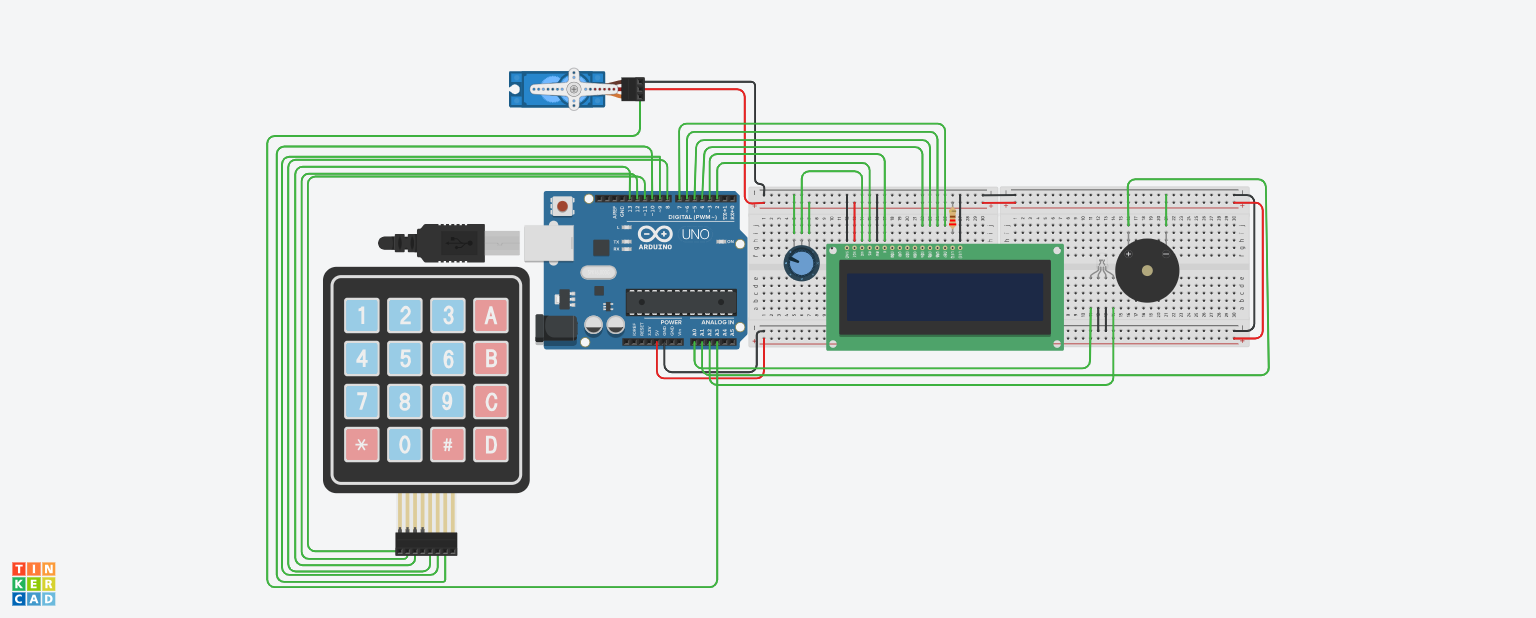
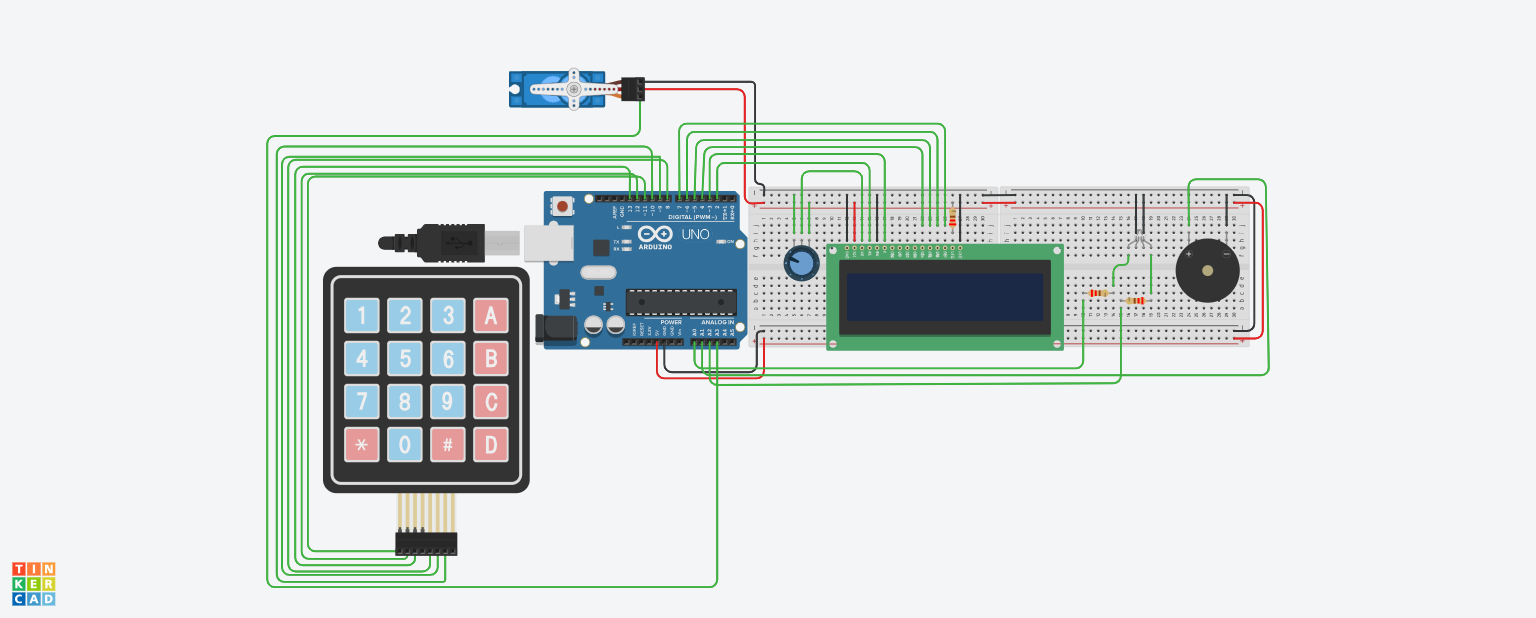
Fixing RGB LED connection

Changed region(s): [[0.6875, 0.2767, 0.8125, 0.5841], [0.5312, 0.6149, 0.7188, 0.6456]]

diff --git a/README.md b/README.md
@@ -1,2 +1,13 @@
 # Door_Safeguards_Rovers.
-The project is about to unlock a door using a password entered on a keypad. An LCD screen displays the message.LED lights up green and the door unlocks ,or red and buzzer rings, for 2 seconds
+The project is about unlock a door using a password entered on a keypad. An LCD screen displays the message "Plz enter the password." If the password is correct, an LED lights up green and the door unlocks. The LCD screen displays the message "Door Unlocked."and the door is unlocked for 2 seconds .
+If the password is incorrect, the same LED turns red (Red color in the LED gradually fade from its full brightness to zero.), and a buzzer sounds for 2 second. This loop continues.
+The password for unlocking the door is "74321658" The number 9 on the keypad is used as an enter key.
+For security purposes, the password entered by the user is displayed on the LCD as "#" .
+Characters from A to Z and special characters are not valid for the password. If the user includes them, they will not be displayed on the LCD (the only valid are 1-8).
+Components:
+Arduino uno 
+Servo motor (plays the role of the door)
+LED
+LCD
+Buzzer 
+and other components
